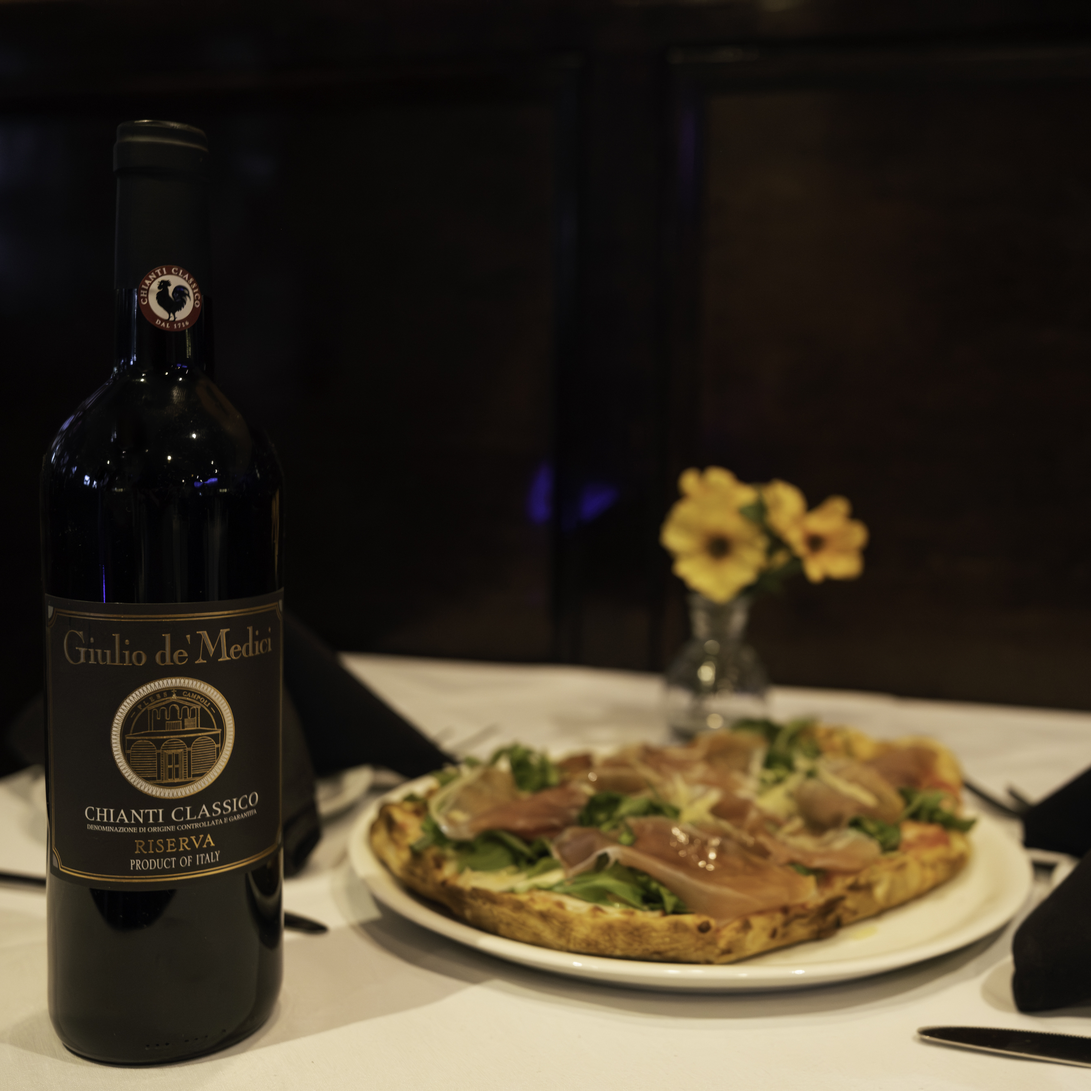
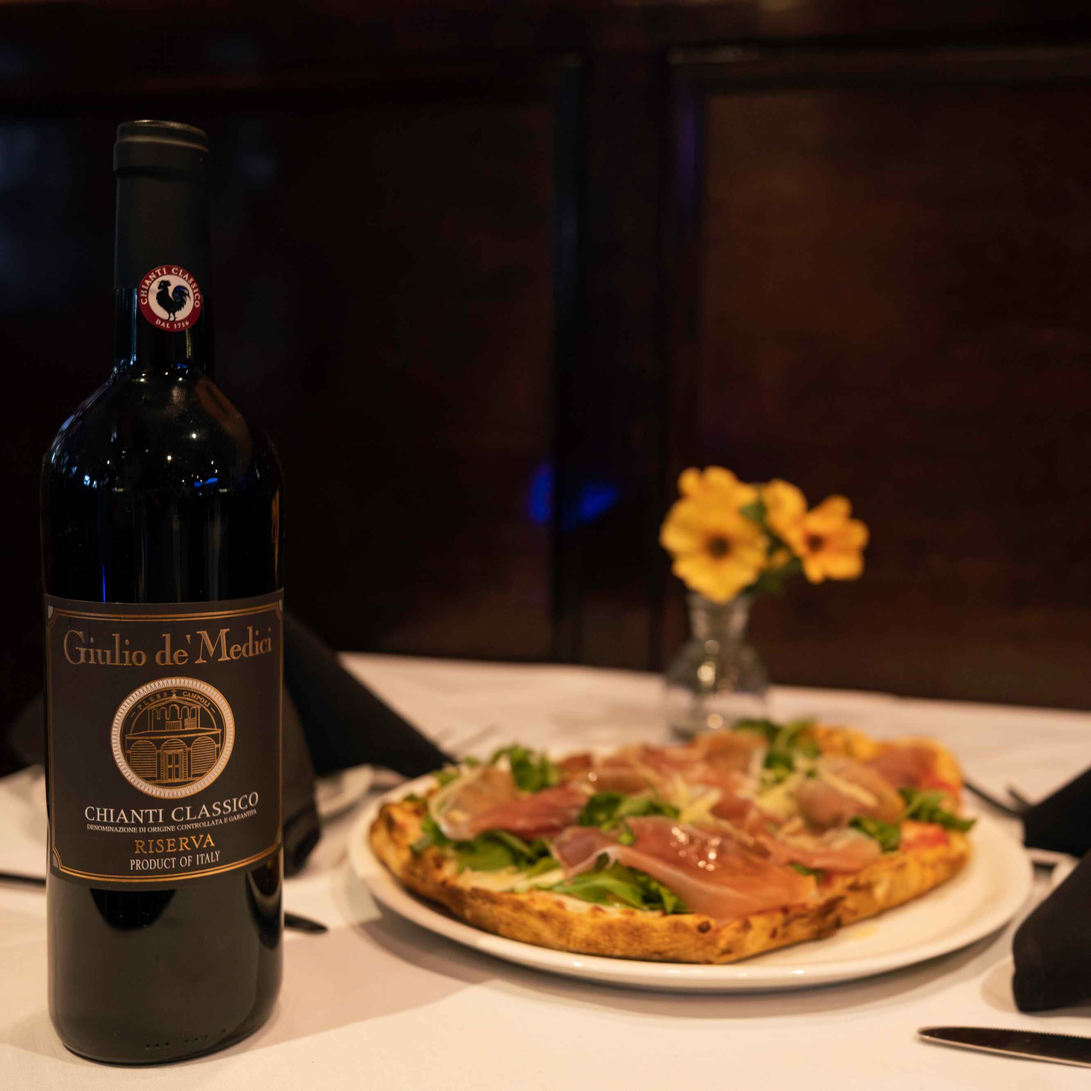
Compressed some images and fixed menu syntax

diff --git a/menus.html b/menus.html
@@ -3,13 +3,13 @@
     <h1
         class="is-size-1-desktop is-size-2-touch has-text-weight-bold has-text-centered pt-3 title menu-font has-text-white">
         Maestrale's Menu</h1>
-    <p class="iis-size-2-desktop is-size-3-touch has-text-weight-bold has-text-centered mb-6 mx-5 menu-description">
+    <p class="is-size-2-desktop is-size-3-touch has-text-weight-bold has-text-centered mb-6 mx-5 menu-description">
         Resturant and Pinzeria</p>
     <div class="has-text-centered">
         <p class="is-size-4-desktop is-size-5-touch menu-description mx-6">
-            Maestrale is a wind that come from the norht-west of Italy, the
-            medetirean sea brings eight different winds
-            each one fo them is unique, just like our food
+            Maestrale is a wind that comes from the north-west of Italy, the
+            Medetirean Sea brings eight different winds
+            Each one of them is unique, just like our food
         </p>
     </div>
     <div class="columns has-text-centered mt-6 mx-6">
@@ -23,7 +23,7 @@
             </div>
             <div class=" menu-entry is-size-4-desktop is-size-5-touch is-size-6-mobile mb-4">
                 <div class="menu-title">MUSSELS AL VINO BINACO</div>
-                <div>Musseis in a rich italian white wine sauc,
+                <div>Musseis in a rich Italian white wine sauce,
                     serveed with fresh Pugliese bread.
                 </div>
             </div>
@@ -32,20 +32,20 @@
                 <div>Soup of the day</div>
             </div>
             <div class=" menu-entry is-size-4-desktop is-size-5-touch is-size-6-mobile mb-4">
-                <div class="menu-title">SAUSEG AND BROCOOLI RABE</div>
+                <div class="menu-title">SAUSEG AND BROCCOLI RABE</div>
                 <div>Sauteed mild sausage, with rapini, light marinara sauce and parmigiano.</div>
             </div>
             <div class=" menu-entry is-size-4-desktop is-size-5-touch is-size-6-mobile mb-4">
                 <div class="menu-title">BRUSCHETTA</div>
-                <div>Cherry tomato, light garlic, extra vergin oil, basil on roasted pugliese bread.</div>
+                <div>Cherry tomato, light garlic, extra virgin oil, basil on roasted Pugliese bread.</div>
             </div>
             <div class=" menu-entry is-size-4-desktop is-size-5-touch is-size-6-mobile mb-4">
                 <div class="menu-title">POLPETTE DELLA NONNA</div>
-                <div>Homade beef meatball, marinara, permesan cheese.</div>
+                <div>Homade beef meatball, marinara, parmesan cheese.</div>
             </div>
             <div class=" menu-entry is-size-4-desktop is-size-5-touch is-size-6-mobile mb-4">
                 <div class="menu-title">TAGLIERE ALL'ITALIANA</div>
-                <div>Chef daily selection of cold cuts and cheeses, served on a board.</div>
+                <div>Chef daily selection of cold cuts and cheeses served on a board.</div>
             </div>
             <div class=" menu-entry is-size-4-desktop is-size-5-touch is-size-6-mobile mb-4">
                 <div class="menu-title">CAPRESE FIORI DI LATTE</div>
@@ -57,11 +57,11 @@
             </div>
             <div class=" menu-entry is-size-4-desktop is-size-5-touch is-size-6-mobile mb-4">
                 <div class="menu-title">CALAMRI FRITTI</div>
-                <div>Fried calameri,homemade marinara sauce.</div>
+                <div>Fried calameri, homemade marinara sauce.</div>
             </div>
             <div class=" menu-entry is-size-4-desktop is-size-5-touch is-size-6-mobile mb-4">
                 <div class="menu-title">CAESAR SALDA</div>
-                <div>Romaine lettuce, shaved parmigiana, croutons, cesar dressing</div>
+                <div>Romaine lettuce, shaved parmigiana, croutons, caesar dressing</div>
             </div>
             <div class=" menu-entry is-size-4-desktop is-size-5-touch is-size-6-mobile mb-4">
                 <div class="menu-title">INSALATA MISTA</div>
@@ -69,7 +69,7 @@
             </div>
             <div class=" menu-entry is-size-4-desktop is-size-5-touch is-size-6-mobile mb-4">
                 <div class="menu-title">RUCOLA SALAD</div>
-                <div>Tomato, goat cheese, red onion, lemon vinegrette.</div>
+                <div>Tomato, goat cheese, red onion, lemon vinaigrette.</div>
             </div>
             <div class="menu-description">For salads : chicken 4 or shrimp 10</div>
 
@@ -78,7 +78,7 @@
 
             <div class=" menu-entry is-size-4-desktop is-size-5-touch is-size-6-mobile mb-4">
                 <div class="menu-title">PASTA ORTOLANA</div>
-                <div>Souteed veggies of the day with oil, garlic, veggies, charries tomatoes.</div>
+                <div>Souteed veggies of the day with oil, garlic, veggies, cherries tomatoes.</div>
             </div>
             <div class=" menu-entry is-size-4-desktop is-size-5-touch is-size-6-mobile mb-4">
                 <div class="menu-title">SPAGHETTI MARINARA WITH MEATBALL OR SAUSAGE<span
@@ -87,11 +87,11 @@
             </div>
             <div class=" menu-entry is-size-4-desktop is-size-5-touch is-size-6-mobile mb-4">
                 <div class="menu-title">SPAGHETTI AMATRICIANA</div>
-                <div>Pancetta, fresh cherry tomatoes, light tomato sauce and parmiggiano cheese.</div>
+                <div>Pancetta, fresh cherry tomatoes, light tomato sauce and Parmigiano cheese.</div>
             </div>
             <div class=" menu-entry is-size-4-desktop is-size-5-touch is-size-6-mobile mb-4">
                 <div class="menu-title">FETTUCCINE BOLOGNESE</div>
-                <div>Fresh fettucine pasta topped with meat sauce.</div>
+                <div>Fresh fettuccine pasta topped with meat sauce.</div>
             </div>
             <div class=" menu-entry is-size-4-desktop is-size-5-touch is-size-6-mobile mb-4">
                 <div class="menu-title">LINGUINE PESCATORA</div>
@@ -103,15 +103,15 @@
             </div>
             <div class=" menu-entry is-size-4-desktop is-size-5-touch is-size-6-mobile mb-4">
                 <div class="menu-title">GNOCCHI SORRENTINA</div>
-                <div>Homemade potato gnocchi with Marinara sauce, fresh mozzarella, basil.</div>
+                <div>Homemade potato gnocchi with Marinara sauce, fresh mozzarella and basil.</div>
             </div>
             <div class=" menu-entry is-size-4-desktop is-size-5-touch is-size-6-mobile mb-4">
                 <div class="menu-title">GNOCCHI GORGONZOLA</div>
-                <div>Gorgonzola cheese, cream, parmisan, walnuts.</div>
+                <div>Gorgonzola cheese, cream, parmesan, walnuts.</div>
             </div>
             <div class=" menu-entry is-size-4-desktop is-size-5-touch is-size-6-mobile mb-4">
                 <div class="menu-title">FETTUCCINE BOSCAIOLA</div>
-                <div>Fresh fettucine pasta with mixed mushrooms, alfredo sauce, white truffle oil.</div>
+                <div>Fresh fettuccine pasta with mixed mushrooms, alfredo sauce, and white truffle oil.</div>
             </div>
             <div class=" menu-entry is-size-4-desktop is-size-5-touch is-size-6-mobile mb-4">
                 <div class="menu-title">LASAGNA EMILIANA</div>
@@ -161,16 +161,16 @@
                 <div>Chicken with a rich piccata sauce, topped with artichokes.</div>
             </div>
 
-            <div class="menu-description">Meat and fish served with side of pasta marinara of veggetables of the day
-                extra chenges will be charged.</div>
+            <div class="menu-description">Meat and fish served with a side of pasta marinara of vegetables of the day
+                extra charges will be charged.</div>
 
 
             <h2 class="is-size-2 has-text-weight-bold menu-entry">Speciality Pinsa Romana</h2>
             <div class="menu-description mb-4">
                 The pinsa an anciet roman pizza.<br>
-                Our pinsa features an oval shape, crunchy outside and soft inside, and<br>
-                great flavor thanks to several leavening techniques,<br>
-                and an orignal blend of:<br>
+                Our pins features an oval shape, crunchy outside and soft inside, and<br>
+                great flavour thanks to several leavening techniques,<br>
+                and an original blend of:<br>
                 wheat flour, rice flour, soy flour and wild yeast.<br>
             </div>
 
@@ -184,7 +184,7 @@
             </div>
             <div class=" menu-entry is-size-4-desktop is-size-5-touch is-size-6-mobile mb-4">
                 <div class="menu-title">SAPORITA</div>
-                <div>Mozzarella, fresh tomato, basil, red onion, cappers, balck olives, oregano.</div>
+                <div>Mozzarella, fresh tomato, basil, red onion, cappers, black olives, oregano.</div>
             </div>
             <div class=" menu-entry is-size-4-desktop is-size-5-touch is-size-6-mobile mb-4">
                 <div class="menu-title">BARIVECCHIA</div>
@@ -196,11 +196,11 @@
             </div>
             <div class=" menu-entry is-size-4-desktop is-size-5-touch is-size-6-mobile mb-4">
                 <div class="menu-title">CAPRICCIOSA</div>
-                <div>Tomato sauce, ham, mushroom, artichokes, cappers, balck olives, oregano.</div>
+                <div>Tomato sauce, ham, mushroom, artichokes, cappers, black olives, oregano.</div>
             </div>
             <div class=" menu-entry is-size-4-desktop is-size-5-touch is-size-6-mobile mb-4">
                 <div class="menu-title">NAPOLI</div>
-                <div>Tomato sauce, mozzarella, anchiovies, regano</div>
+                <div>Tomato sauce, mozzarella, anchovies, regano</div>
             </div>
             <div class=" menu-entry is-size-4-desktop is-size-5-touch is-size-6-mobile mb-4">
                 <div class="menu-title">MAESTRALE</div>
